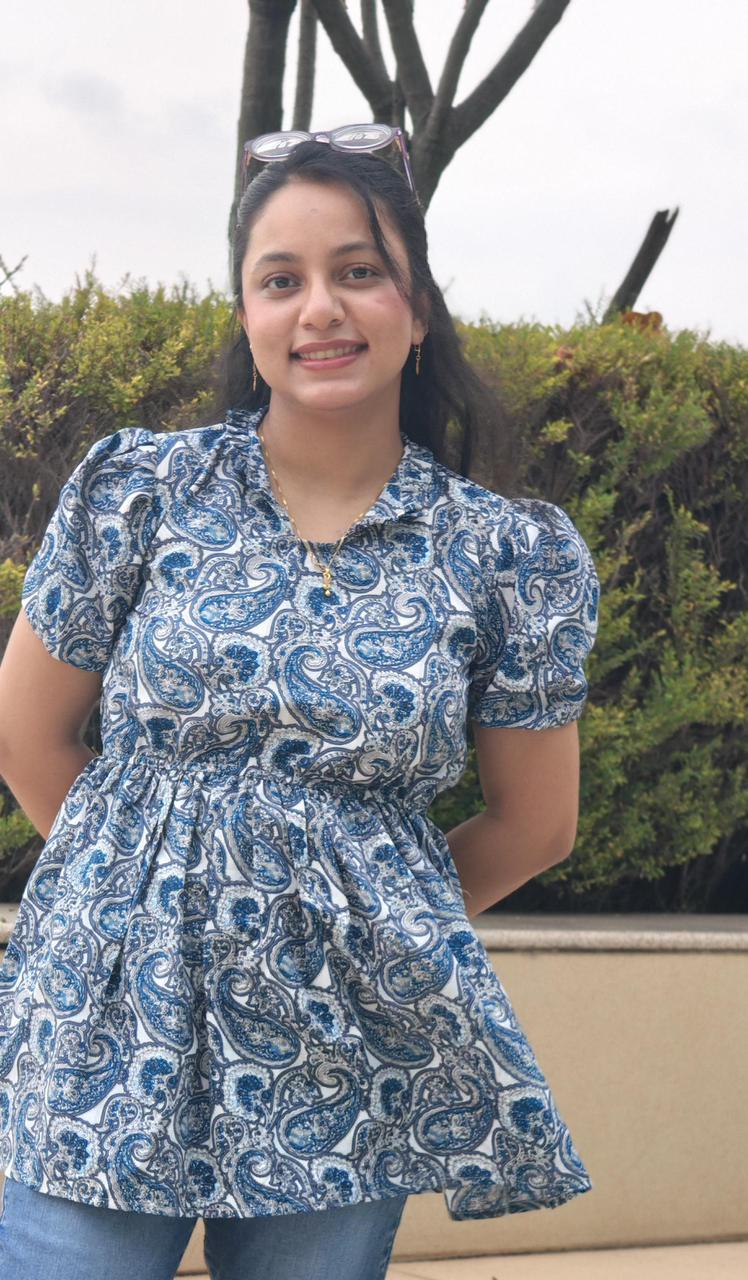
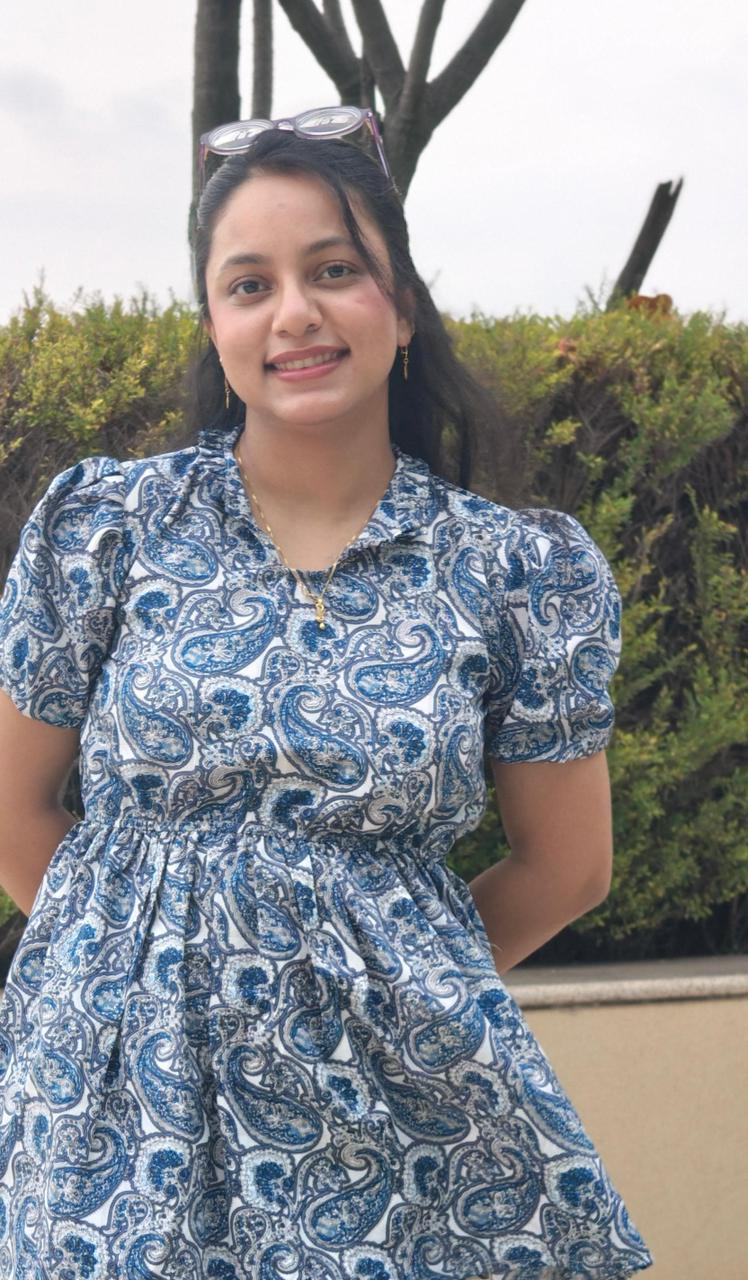
some changes

diff --git a/style/style.css b/style/style.css
@@ -5,11 +5,45 @@ html {
 body {
   margin: 0;
   font-family: "Work Sans", sans-serif;
+  background-image: url('../img/background.jpg');
+  background-position: center;
+  background-size: cover;
+  background-repeat: no-repeat;
+}
+
+.skip-button {
+  position: fixed;
+  top: 1.5rem;
+  right: 1.5rem;
+  padding: 0.65rem 1.25rem;
+  border-radius: 999px;
+  border: none;
+  background: rgba(0, 0, 0, 0.7);
+  color: #fff;
+  font-size: 0.95rem;
+  letter-spacing: 0.03em;
+  text-transform: uppercase;
+  cursor: pointer;
+  z-index: 11000;
+  box-shadow: 0 8px 20px rgba(0, 0, 0, 0.35);
+  transition: background 0.2s ease, transform 0.2s ease, opacity 0.2s ease;
+}
+
+.skip-button:hover:not(:disabled),
+.skip-button:focus-visible:not(:disabled) {
+  background: rgb(255, 105, 180);
+  outline: none;
+  transform: translateY(-1px);
+}
+
+.skip-button:disabled {
+  cursor: not-allowed;
+  opacity: 0.5;
 }
 
 .container {
   height: 100vh;
-  width: 100vh;
+  width: auto;
   margin: 0 auto;
   text-align: center;
   visibility: hidden;
@@ -322,19 +356,33 @@ body {
   font-weight: lighter;
 }
 
+.nine {
+  position: relative;
+}
+
+.nine p,
+.nine .last-smile {
+  position: relative;
+  z-index: 2;
+}
+
 .scattered-photos {
-  position: fixed;
-  top: 0;
-  left: 0;
-  width: 100%;
-  height: 100%;
+  position: absolute;
+  inset: 0;
   pointer-events: none;
-  z-index: 100;
+  z-index: 1;
+}
+
+.nayab-dp {
+  width: 400px;
+  height: 400px;
+  /* border-radius: 50%; */
+  object-fit: cover;
 }
 
 .scattered-photo {
   position: absolute;
-  width: 150px;
+  width: clamp(140px, 11vw, 220px);
   height: auto;
   border-radius: 10px;
   box-shadow: 0 10px 30px rgba(0, 0, 0, 0.3);
@@ -343,35 +391,48 @@ body {
   pointer-events: none;
 }
 
+.scattered-photo.photo-3 {
+  width: clamp(170px, 13vw, 250px);
+}
+
 .scattered-photo.photo-1 {
-  top: 10%;
-  left: 5%;
+  bottom: 10%;
+  left: 40px;
 }
 
 .scattered-photo.photo-2 {
-  top: 20%;
-  right: 10%;
+  top: -60%;
+  right: 2%;
 }
 
 .scattered-photo.photo-3 {
-  top: 50%;
-  left: 15%;
+  top: 83%;
+  left: 5%;
 }
 
 .scattered-photo.photo-4 {
-  bottom: 20%;
-  right: 15%;
+  top: 83%;
+  right: 7%;
 }
 
 .scattered-photo.photo-5 {
-  top: 30%;
-  left: 50%;
+  bottom: 8%;
+  left: 12%;
 }
 
 .scattered-photo.photo-6 {
-  bottom: 30%;
-  left: 60%;
+  bottom: 6%;
+  right: 14%;
 }
+
+.scattered-photo.photo-7 {
+    top: 20%;
+    right: 18%;
+  }
+  .scattered-photo.photo-9 {
+    bottom: 90%;
+    left: 1%;
+  }
 
 #replay {
   z-index: 3;
@@ -582,37 +643,46 @@ body {
   }
 
   .scattered-photo {
-    width: 100px;
+    width: clamp(110px, 38vw, 170px);
+  }
+
+  .scattered-photo.photo-3 {
+    width: clamp(140px, 44vw, 200px);
   }
 
   .scattered-photo.photo-1 {
-    top: 5%;
+    top: 4%;
     left: 2%;
   }
 
   .scattered-photo.photo-2 {
-    top: 15%;
-    right: 5%;
+    top: 2%;
+    right: 2%;
   }
 
   .scattered-photo.photo-3 {
-    top: 45%;
-    left: 5%;
+    top: 60%;
+    left: 4%;
   }
 
   .scattered-photo.photo-4 {
-    bottom: 15%;
-    right: 5%;
+    top: 56%;
+    right: 4%;
   }
 
   .scattered-photo.photo-5 {
-    top: 25%;
-    left: 45%;
+    bottom: 6%;
+    left: 6%;
   }
 
   .scattered-photo.photo-6 {
-    bottom: 25%;
-    left: 50%;
+    bottom: 6%;
+    right: 8%;
+  }
+
+  .scattered-photo.photo-7 {
+    top: 22%;
+    right: 10%;
   }
 
   .interactive-emojis {

diff --git a/script/main.js b/script/main.js
@@ -1,4 +1,36 @@
 // Import the data to customize and insert them into page
+const skipButton = document.getElementById("skip");
+let mainTimeline = null;
+let skipRequested = false;
+
+const setSkipButtonState = (disabled, label) => {
+  if (!skipButton) return;
+  skipButton.disabled = disabled;
+  if (label) {
+    skipButton.textContent = label;
+  }
+};
+
+const goToFinalScreen = () => {
+  if (!mainTimeline) return;
+  mainTimeline.progress(1, false);
+  mainTimeline.pause();
+};
+
+const handleSkip = () => {
+  if (skipButton && skipButton.disabled) return;
+  skipRequested = true;
+  setSkipButtonState(true, "Skipping…");
+  if (mainTimeline) {
+    goToFinalScreen();
+    setSkipButtonState(true, "Skipped");
+  }
+};
+
+if (skipButton) {
+  skipButton.addEventListener("click", handleSkip);
+}
+
 const fetchData = () => {
   fetch("customize.json")
     .then(data => data.json())
@@ -350,6 +382,13 @@ const animationTimeline = () => {
   };
 
   const tl = new TimelineMax();
+  mainTimeline = tl;
+  if (skipRequested) {
+    goToFinalScreen();
+    setSkipButtonState(true, "Skipped");
+  } else {
+    setSkipButtonState(false, "Skip to ending");
+  }
 
   tl
     .to(".container", 0.1, {
@@ -548,7 +587,7 @@ const animationTimeline = () => {
       0.2
     )
     .from(
-      ".lydia-dp",
+      ".nayab-dp",
       0.5,
       {
         scale: 3.5,
@@ -683,6 +722,8 @@ const animationTimeline = () => {
   // Restart Animation on click
   const replyBtn = document.getElementById("replay");
   replyBtn.addEventListener("click", () => {
+    skipRequested = false;
+    setSkipButtonState(false, "Skip to ending");
     tl.restart();
   });
 

diff --git a/index.html b/index.html
@@ -12,11 +12,14 @@
 </head>
 
 <body>
+  <button type="button" class="skip-button" id="skip" aria-label="Skip all animations and jump to the finale">
+    Skip to ending
+  </button>
   <div class="container">
     <div class="one">
       <h1 class="one">
         <span data-node-name="greeting">Hey</span>
-        <span data-node-name="name">Lydia</span>
+        <span data-node-name="name">Nayab</span>
       </h1>
       <p class="two" data-node-name="greetingText">I really like your name btw!</p>
     </div>
@@ -55,11 +58,11 @@
       </div>
     </div>
     <div class="six">
-      <img src="img/lydia2.png" alt="" class="lydia-dp" data-node-name="imagePath">
+      <img src="img/image8.jpeg" alt="" class="nayab-dp" data-node-name="imagePath">
       <img src="img/hat.svg" alt="" class="hat">
       <div class="wish">
         <h3 class="wish-hbd" data-node-name="wishHeading">Happy Birthday!</h3>
-        <h5 data-node-name="wishText">May the js.prototypes always be with you! ;)</h5>
+        <h5 data-node-name="wishText">May the best always be with you! ;)</h5>
       </div>
     </div>
     <div class="seven">
@@ -143,6 +146,7 @@
         <img src="img/image5.jpeg" alt="" class="scattered-photo photo-5">
         <img src="img/image6.jpeg" alt="" class="scattered-photo photo-6">
         <img src="img/image7.jpeg" alt="" class="scattered-photo photo-7">
+        <img src="img/image9.jpeg" alt="" class="scattered-photo photo-9">
       </div>
     </div>
   </div>
